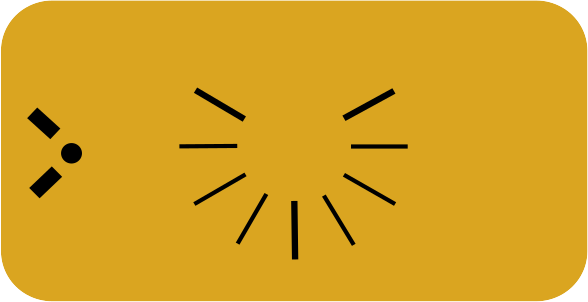
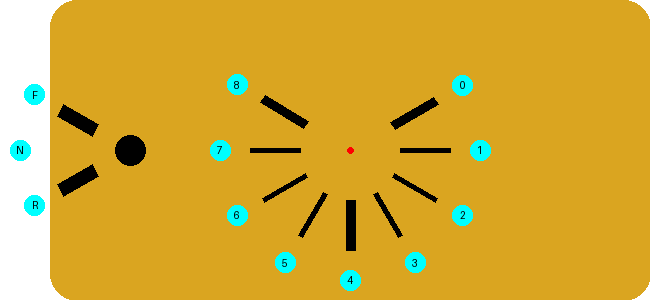
New controller graphics.

diff --git a/support/generate_controller.py b/support/generate_controller.py
@@ -1,0 +1,185 @@
+"""
+Generate the controller for the trolley
+
+The image has the throttle centered at
+@@@, @@@ with 9 positions numbered from 
+0 to 8.   Optionally there are cyan dots
+indicating the run positions.
+
+The angle of the controller is -30 to 210 at 30 degrees each.
+
+
+There is a reverser centered at @@,@@ with forward
+and reveres angles of 135 (R) and 225 (F).
+Neutral is 180.
+
+Documentation References:
+- Pillow (PIL) Documentation: https://pillow.readthedocs.io/
+- Pillow ImageDraw Module: https://pillow.readthedocs.io/en/stable/reference/ImageDraw.html
+- Python Math Module: https://docs.python.org/3/library/math.html
+
+"""
+
+from PIL import Image, ImageDraw
+import math
+
+# Size of the image
+IMAGE_X=650
+IMAGE_Y=300
+
+CONTROLLER_LEFT=50      # Controller is 50 pixels to the right
+CONTROLLER_X=650
+CONTROLLER_Y=300
+CONTROLLER_CORNER=27    # Rounding factor
+
+RUN_TICK_START=50       # Where the run tick starts
+RUN_TICK_END=100        # Where the run tick ends
+RUN_TICK_LABEL=130      # Where the label for the run tick goes
+TICK_COLOR = (0, 0, 0)  # RGB for ticks
+
+REVERSER_OFFSET=80      # Space reverser is from left side
+REVERSER_SIZE=15        # Size of the reverser dot
+
+REVERSER_TICK_START=40  # Where to start the tick
+REVERSER_TICK_END=80    # Where to end the tick
+REVERSER_TICK_WIDTH=15  # Width of the tick
+REVERSER_DOT_POS=110    # Where to put the dot
+
+REVERSER_COLOR = (0, 0, 0)  # RGB for black
+DOT_COLOR = (0, 255, 255)  # RGB for the helper dots
+MIDDLE_DOT_COLOR = (255, 0, 0)  # RGB for the dot in the middle
+
+DOT_RADUIS = 10  # 20 pixel diameter for all cyan dots
+
+# WARNING: Edit ../controller.py if these change
+CONTROLLER_CENTER_X, CONTROLLER_CENTER_Y = 350, 150   # Location of the center of the controller
+circle_radius = 3               # Radius of red dot in the middle of the controller
+
+def ReverserDot(Reverser_x, Reverser_y, Angle, Label):
+    """
+    Draw a reverser label
+
+    Args:
+        Reverser_x: Center of the reverser in X
+        Reverser_y: Center of the reverser in Y
+        Angle: The angle of the line
+        Label: The label 
+    """
+    LineAngle = math.radians(Angle)  # Convert degrees to radians for trig functions
+    # Draw a cyan dot with label at the end of the line
+    dot_f_x = Reverser_x + REVERSER_DOT_POS * math.cos(LineAngle)
+    dot_f_y = Reverser_y + REVERSER_DOT_POS * math.sin(LineAngle)
+    ControllerDraw.ellipse([dot_f_x - DOT_RADUIS, dot_f_y - DOT_RADUIS,
+                  dot_f_x + DOT_RADUIS, dot_f_y + DOT_RADUIS], fill=DOT_COLOR)
+    ControllerDraw.text((dot_f_x, dot_f_y), Label, fill=(0, 0, 0), anchor="mm")
+    
+def ReverserLine(Reverser_x, Reverser_y, Angle, Label):
+    """
+    Draw a reverser line
+
+    Args:
+        Reverser_x: Center of the reverser in X
+        Reverser_y: Center of the reverser in Y
+        Angle: The angle of the line
+        Label: The label to put at the end
+    """
+    LineAngle = math.radians(Angle)  # Convert degrees to radians for trig functions
+    LineStart_x = Reverser_x + REVERSER_TICK_START * math.cos(LineAngle)  
+    LineStart_y = Reverser_y + REVERSER_TICK_START * math.sin(LineAngle)
+    LineEnd_x = Reverser_x + REVERSER_TICK_END * math.cos(LineAngle)  
+    LineEnd_y = Reverser_y + REVERSER_TICK_END * math.sin(LineAngle)
+
+    # Draw the black portion (second half of the line)
+    ControllerDraw.line([LineStart_x, LineStart_y, LineEnd_x, LineEnd_y], 
+              fill=REVERSER_COLOR, width=REVERSER_TICK_WIDTH)
+    ReverserDot(Reverser_x, Reverser_y, Angle, Label)
+
+
+def DrawReverser():
+    # ============================================================================
+    # Reverser center
+    # ============================================================================
+    Reverser_x = CONTROLLER_LEFT + REVERSER_OFFSET  # Left edge of rectangle (50) + 80 pixels offset
+    Reverser_y = CONTROLLER_Y/2      # Vertical center of the image
+    Reverser_radius = REVERSER_SIZE  # Half of 30 pixel diameter
+    ControllerDraw.ellipse([Reverser_x - Reverser_radius, Reverser_y - Reverser_radius,
+                  Reverser_x + Reverser_radius, Reverser_y + Reverser_radius], 
+                  fill=REVERSER_COLOR)
+
+    # ============================================================================
+    # LINES The reverser
+    # ============================================================================
+    ReverserLine(Reverser_x, Reverser_y, 210, "F")
+    ReverserLine(Reverser_x, Reverser_y, 150, "R")
+    ReverserDot (Reverser_x, Reverser_y, 180, "N")
+
+# Create a new RGB image with dimensions 650x300 pixels
+# Background color is white
+ControllerImage = Image.new('RGB', (IMAGE_X, IMAGE_Y), color='white')
+
+# Create a drawing context for adding shapes and text to the image
+ControllerDraw = ImageDraw.Draw(ControllerImage)
+
+# ============================================================================
+# MAIN RECTANGLE
+# ============================================================================
+# Draw a tan rectangle with rounded corners on the right side of the image
+# Rectangle dimensions: 600 pixels wide x 300 pixels tall
+# Position: starts at x=50 (to leave 50 pixels on left) and extends to x=650
+# The rectangle fills the entire height (y=0 to y=300)
+BROWN_COLOR = (0xda, 0xa5, 0x20)  # RGB values for tan color
+ControllerDraw.rounded_rectangle([CONTROLLER_LEFT, 0, CONTROLLER_X, CONTROLLER_Y], radius=CONTROLLER_CORNER, fill=BROWN_COLOR)
+
+DrawReverser()
+
+def DrawRun(Center_X, Center_Y, Angle, Label, Width):
+    """
+    Draw the run tick
+
+    Args:
+        Center_X: Center of the controller in X
+        Center_Y: Center of the controller in Y
+        Angle: Angle of the tick
+        Lable: Tick label
+        Width: Width of the tick
+    """
+
+    LineAngle = math.radians(Angle)
+    Line_Start_X = Center_X + RUN_TICK_START * math.cos(LineAngle)   # Midpoint for color transition
+    Line_Start_Y = Center_Y + RUN_TICK_START * math.sin(LineAngle)
+    Line_End_X = Center_X + RUN_TICK_END * math.cos(LineAngle)  # Endpoint
+    Line_End_Y = Center_Y + RUN_TICK_END * math.sin(LineAngle)
+
+    ControllerDraw.line([Line_Start_X, Line_Start_Y, Line_End_X, Line_End_Y], fill=TICK_COLOR, width=Width)
+
+    # Dot for -30 degree line (label "0")
+    Dot_X = Center_X + RUN_TICK_LABEL * math.cos(LineAngle)
+    Dot_Y = Center_Y + RUN_TICK_LABEL * math.sin(LineAngle)
+    ControllerDraw.ellipse([Dot_X - DOT_RADUIS, Dot_Y - DOT_RADUIS,
+                  Dot_X + DOT_RADUIS, Dot_Y + DOT_RADUIS], fill=DOT_COLOR)
+    ControllerDraw.text((Dot_X, Dot_Y), Label, fill=(0, 0, 0), anchor="mm")
+
+# Draw the 9 ticks
+for Tick in range(9):
+    Angle = -30 + 30*Tick
+    Label = str(Tick)
+    Width = 5
+    if (Tick in (0, 4, 8)):
+       Width = 10
+    DrawRun(CONTROLLER_CENTER_X, CONTROLLER_CENTER_Y, Angle, Label, Width)
+
+# Red dot in the middle
+ControllerDraw.ellipse([CONTROLLER_CENTER_X - circle_radius, CONTROLLER_CENTER_Y - circle_radius,
+              CONTROLLER_CENTER_X + circle_radius, CONTROLLER_CENTER_Y + circle_radius], 
+              fill=MIDDLE_DOT_COLOR)
+
+# ============================================================================
+# SAVE IMAGE
+# ============================================================================
+# Save the completed image as a PNG file
+IMAGE_NAME="controller-bg.png"
+ControllerImage.save(IMAGE_NAME)
+print(f"Image created successfully: {IMAGE_NAME}")
+
+# Optionally display the image (uncomment if running in an environment that supports it)
+ControllerImage.show()

diff --git a/controller.py b/controller.py
@@ -24,6 +24,18 @@ from PyQt5.QtGui import QBrush, QPen, QFont, QPixmap, QPainter
 
 import state
 
+CONTROLLER_CENTER_X = 350   # Location of the center of the controller
+CONTROLLER_CENTER_Y = 150   # Location of the center of the controller
+
+# Try and adjust the center of the handle to the correct location
+# This are eyeballed and need to be computed
+CONTROLLER_HANDLE_X_OFFSET = 173
+CONTROLLER_HANDLE_Y_OFFSET = 40
+
+# This are eyeballed and need to be computed
+REVERSE_HANDLE_X_POS = 79      # Position of the handle in X
+REVERSE_HANDLE_X_OFFSET = 38    # Offset to rotation point
+
 class ControllerGraphics():
     """
     Handle the drawing and clicking of the controller controller.
@@ -78,16 +90,15 @@ class ControllerGraphics():
 
         self.ControllerHandleItem = self.ControllerScene.addPixmap(ControllerHandleScaled)
 
-        # Try and adjust the center of the handle to the correct location
-        CONTROLLER_HANDLE_X_OFFSET = 156
-        CONTROLLER_HANDLE_Y_OFFSET = 40
         #                      0  1   2   3   4    5    6    7     8
         self.RUN_TO_ANGLE = (-30, 0, 30, 60, 90, 120, 150, 180, -150)
 
         # Because end of hand is rounded, we need to move it a little based on height alone
         self.ControllerHandleItem.setPos(CONTROLLER_HANDLE_X_OFFSET, CONTROLLER_HANDLE_Y_OFFSET)
-        CONTROLLER_X_CENTER = 22   # The rotation point of the controller in X
+
+        # Not a typo, the height controls the rotation point
         self.ControllerHandleItem.setTransformOriginPoint(ControllerHandleScaled.height()/2, ControllerHandleScaled.height()/2)
+
         self.ControllerHandleRotation = 0
         state.Log("Controller run level %d Angle %d" % (state.State.RunLevel, self.RUN_TO_ANGLE[state.State.RunLevel]))
         self.ControllerHandleItem.setRotation(self.RUN_TO_ANGLE[state.State.RunLevel])
@@ -99,8 +110,6 @@ class ControllerGraphics():
         ReverseHandleScaled = ReverseHandle.scaledToHeight(NewHeight)
 
         self.ReverseHandleItem = self.ControllerScene.addPixmap(ReverseHandleScaled)
-        REVERSE_HANDLE_X_POS = 64      # Position of the handle in X
-        REVERSE_HANDLE_X_OFFSET = 38    # Offset to rotation point
         self.ReverseHandleItem.setPos(REVERSE_HANDLE_X_POS, ControllerHeight/2+2)
         self.ReverseHandleItem.setTransformOriginPoint(REVERSE_HANDLE_X_OFFSET, ReverseHandleScaled.height()/2)
         self.ReverseHandleItem.setRotation(0)  

diff --git a/support/gen-controller-arm.py b/support/gen-controller-arm.py
@@ -1,0 +1,70 @@
+from PIL import Image, ImageDraw
+
+# Define constants
+BROWN_COLOR = (0x8b, 0x45, 0x13)  # RGB values for tan color
+CIRCLE_RADIUS = 40
+RECT_LENGTH = 130
+END_CIRCLE_RADIUS = 20
+BORDER_WIDTH = 3
+HOLE_RADIUS = 3
+
+# Calculate minimum image size
+Width = (CIRCLE_RADIUS + BORDER_WIDTH) + RECT_LENGTH + END_CIRCLE_RADIUS + BORDER_WIDTH
+Height = 2 * (CIRCLE_RADIUS + BORDER_WIDTH)
+
+# Create a new image with transparent background (RGBA mode)
+Img = Image.new('RGBA', (Width, Height), (0, 0, 0, 0))
+Draw = ImageDraw.Draw(Img)
+
+# Starting position for the circle (left side)
+CircleCenterX = CIRCLE_RADIUS + BORDER_WIDTH
+CircleCenterY = Height // 2
+
+# Draw the rectangle extending to the right (draw first, behind circles)
+RectWidth = 20
+RectLeft = CircleCenterX
+RectTop = CircleCenterY - RectWidth // 2
+RectRight = RectLeft + RECT_LENGTH
+RectBottom = RectTop + RectWidth
+
+Draw.rectangle(
+    [RectLeft, RectTop, RectRight, RectBottom],
+    fill=BROWN_COLOR,
+    outline='black',
+    width=BORDER_WIDTH
+)
+
+# Draw the main circle (radius 40, tan fill, 3px black border)
+Draw.ellipse(
+    [CircleCenterX - CIRCLE_RADIUS, CircleCenterY - CIRCLE_RADIUS,
+     CircleCenterX + CIRCLE_RADIUS, CircleCenterY + CIRCLE_RADIUS],
+    fill=BROWN_COLOR,
+    outline='black',
+    width=BORDER_WIDTH
+)
+
+# Draw the hole in the center (3 pixel radius)
+Draw.ellipse(
+    [CircleCenterX - HOLE_RADIUS, CircleCenterY - HOLE_RADIUS,
+     CircleCenterX + HOLE_RADIUS, CircleCenterY + HOLE_RADIUS],
+    fill=(0, 0, 0, 0),  # Transparent fill
+    outline='black',
+    width=1
+)
+
+# Draw the black circle at the right end of the rectangle
+EndCircleCenterX = RectRight
+EndCircleCenterY = CircleCenterY
+
+Draw.ellipse(
+    [EndCircleCenterX - END_CIRCLE_RADIUS, EndCircleCenterY - END_CIRCLE_RADIUS,
+     EndCircleCenterX + END_CIRCLE_RADIUS, EndCircleCenterY + END_CIRCLE_RADIUS],
+    fill='black',
+    outline='black'
+)
+
+# Save and display the image
+IMAGE="controller-arm.png"
+Img.save(IMAGE)
+Img.show()
+print(f"Image generated and saved as {IMAGE}")

diff --git a/main.py b/main.py
@@ -1028,6 +1028,7 @@ class Window(QMainWindow, sim_ui4.Ui_MainWindow):
         # left, top, right, bottom
         self.centralwidget.setContentsMargins(LeftMargin, TopMargin, RightMargin, BottomMargin)
         Margins = self.centralwidget.contentsMargins()
+        self.AideBox.hide()     ##@@ until implemented, don't show
 
     def PlayVideo(self):
         """
